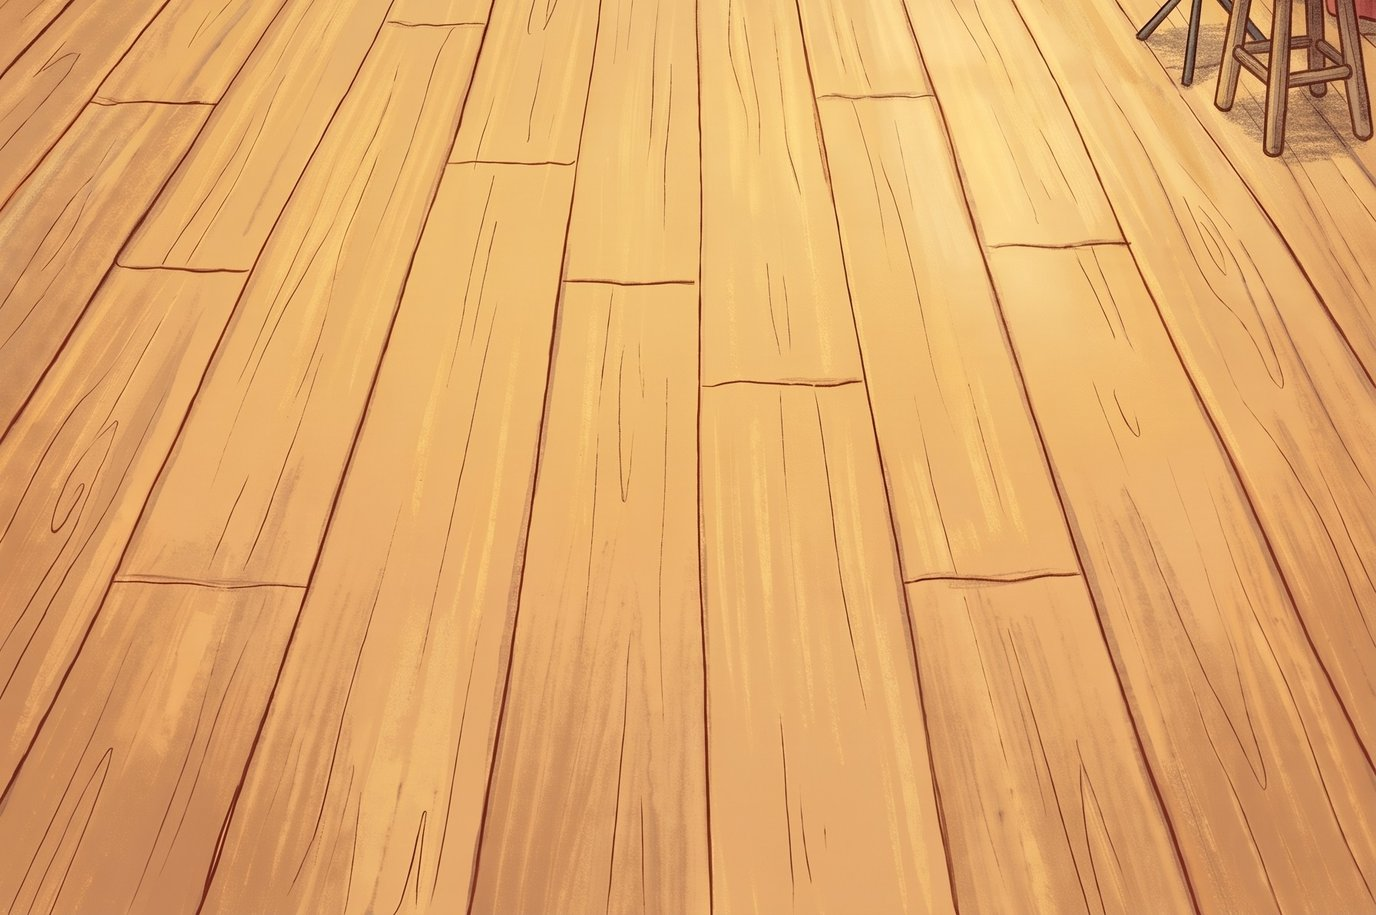
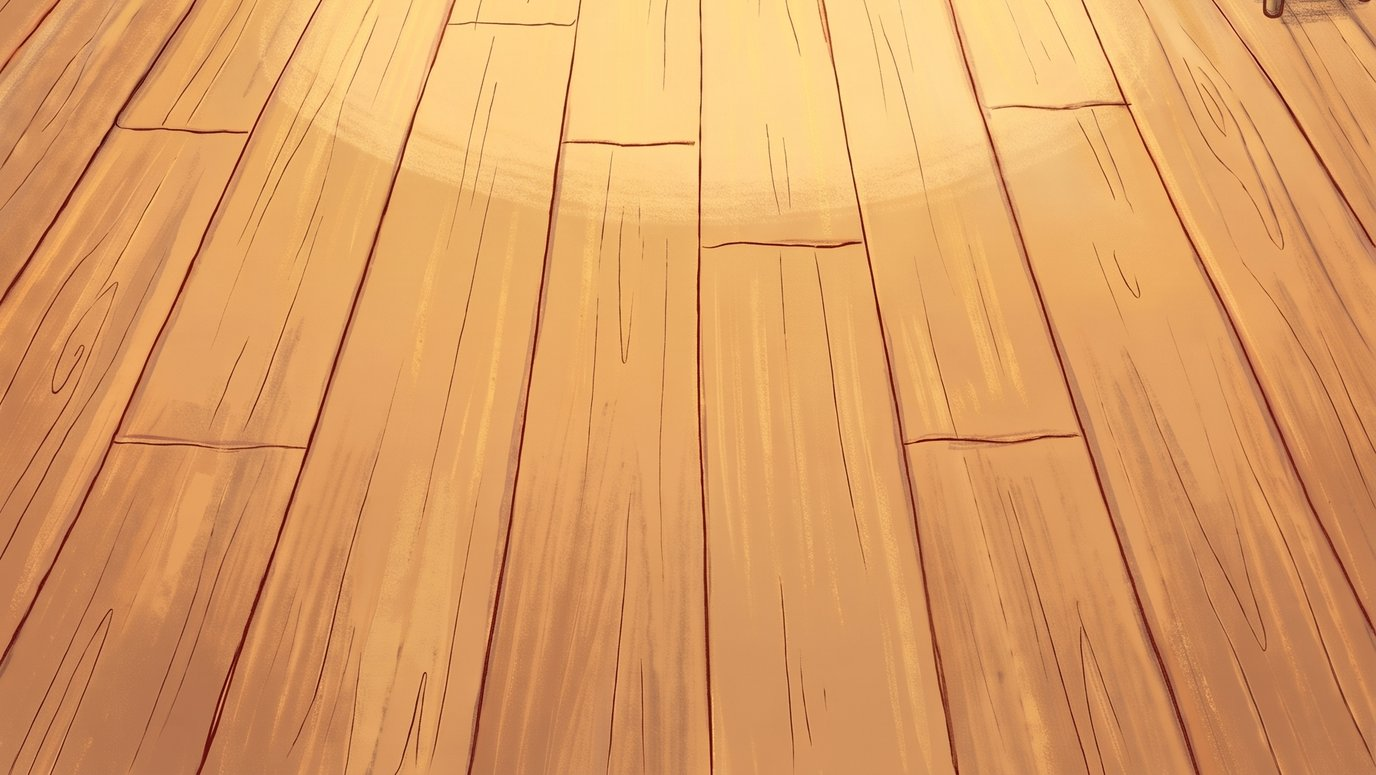
Violin stage redrawn as a real stage seen from on it (open side door, ladder by the light, stand and stool kept), band and spots refit

Changed region(s): [[0.0, 0.0, 1.0, 1.0], [0.875, 0.991, 0.9062, 1.0], [0.4375, 0.991, 0.4688, 1.0]]

diff --git a/index.html b/index.html
@@ -2475,7 +2475,7 @@ const VIOLIN_CASE = {
         { label:'Stool', prop:true, en:'There is a stool next to the music stand.', ko:'악보대 옆에 작은 의자가 있어.' },
         { label:'Open door', prop:true, en:'The door is open. I can see a ladder.', ko:'문이 열려 있어. 사다리가 보이네.' }
       ],
-      spots:[ { clue:0, x:81, y:51, w:14, h:18 }, { clue:1, x:89, y:90, w:10, h:10 }, { clue:2, x:24, y:7, w:20, h:70 } ] },
+      spots:[ { clue:0, x:81, y:33, w:14, h:20 }, { clue:1, x:88, y:72, w:11, h:28 }, { clue:2, x:3, y:2, w:29, h:86 } ] },
     // the curtain opens once Pip has told what he saw (design 6절); the case and the button lie in front of it until taken
     { id:'backstage', x:76, y:29, label:'Backstage', artWidth:1376, artHeight:768,
       clues:[
@@ -6229,7 +6229,7 @@ const ART_FLOOR = {
   // the violin case: one tall picture each as well
   foyer:    { src:'assets/places/violin/lobby-floor.jpg', h:695 },
   waiting:  { src:'assets/places/violin/waiting-floor.jpg', h:935 },
-  stage:    { src:'assets/places/violin/stage-floor.jpg', h:915 },
+  stage:    { src:'assets/places/violin/stage-floor.jpg', h:775 },
   backstage:{ src:'assets/places/violin/backstage-floor.jpg', h:825 }
 };
 

diff --git a/scripts/cut-violin-places.py b/scripts/cut-violin-places.py
@@ -18,7 +18,7 @@ from collections import deque
 from PIL import Image, ImageFilter, ImageChops, ImageDraw
 D = 'assets/places/violin/'
 CUT = sys.argv[1].rstrip('/\\') + '/'
-TOP = {'lobby': 380, 'waiting': 140, 'stage': 160, 'backstage': 250, 'backstage-open': 250}
+TOP = {'lobby': 380, 'waiting': 140, 'stage': 300, 'backstage': 250, 'backstage-open': 250}
 for id, top in TOP.items():
     im = Image.open(D + f'{id}-higgsfield-original.jpg').convert('RGB').resize((1376, 1843), Image.LANCZOS)
     im.crop((0, top, 1376, top + 768)).save(D + f'{id}.jpg', quality=88)

diff --git a/assets/places/README.md b/assets/places/README.md
@@ -106,12 +106,12 @@ Use case: illustration-story. Create ONE empty background illustration for the w
 - 장소 4곳: 우산 사건처럼 바닥까지 세로 한 장. Nano Banana 2.1 · 3:4 · 2K · thinking high, 회관 원본(`umbrella/hall-higgsfield-original.jpg`, media `216af844-…`)을 화풍 참조로. 장당 2크레딧. 1792×2400.
   - 로비 `7b6d317d-1ae9-4f9d-bedb-dc835ef8f5b1` → `lobby-higgsfield-original.jpg`: 바이올린·음표 포스터, 그 아래 긴 벤치와 벤치 밑 안내지, 빈 안내판(이젤), 탁자 위 프로그램 묶음, 안쪽 복도 문.
   - 대기실 `e1ab2f17-86a3-4a76-8335-40b9b2d5720c` → `waiting-higgsfield-original.jpg`: 왼쪽 열린 문 너머 준비실 입구와 붉은 커튼, 의자 두 개(왼쪽 의자 옆 빈 바닥), 옷걸이, 전신거울, 탁자 위 물병. 니퍼는 그림에 없다(소지품 그림을 오른쪽 의자 아래에 얹는다).
-  - 무대 `8dbddf27-0911-4532-a00f-551c64234cd4` → `stage-higgsfield-original.jpg`: 열린 옆문 너머 사다리와 작업등만 보임, 오른쪽 가장자리 악보대와 작은 의자, 붉은 막과 객석.
+  - 무대(다시 만듦, 2026-11-09, 사용자 요청: 무대답게; 첫 판 `8dbddf27-…`은 복도 옆방처럼 보였음) `db00b210-344d-41b3-8bed-936a47f1367b` → `stage-higgsfield-original.jpg`: 무대 위에서 객석을 보는 시점. 금색 무대 틀과 양옆으로 걷힌 붉은 막·술 달린 위 장식, 조명 봉의 스포트라이트, 무대 앞 각광, 어두운 붉은 객석과 2층, 비상구 등. 왼쪽 무대 옆 열린 문 너머 작업등 옆 사다리(이보 i4), 오른쪽 악보대와 작은 의자. 참조 첫 판 무대·준비실 job, 3:4 2K thinking high, 2크레딧.
   - 준비실 `4c7728ea-0c9b-48b0-be61-0565a3a6eaf5` → `backstage-higgsfield-original.jpg`: 왼쪽 통로 문, 사다리와 켜진 작업등, 닫힌 긴 붉은 커튼, 오른쪽 무대 쪽 문.
   - 커튼을 연 준비실 `2e486cef-dbad-449d-9965-7f936977410b` → `backstage-open-higgsfield-original.jpg`(위 준비실을 참조로 편집, 2K라 2크레딧): 커튼을 오른쪽으로 걷어 선반 위 예비 전구들, 선반 아래 검은 공구함. 케이스·단추는 그림에 없다(소지품 그림을 얹는다).
 - 소지품 시트 `1a72b2d8-fc85-4c82-acaf-4c7fe9885655` → `items-sheet-original.jpg`(16:9 2K, 2크레딧, 참조 `umbrella/umbrella-sheet-original.png`·타라와 오웬 시트): 닫힌 검은 케이스(노란 달), 연 케이스(현이 끊어진 바이올린·활), 금색 단추, 날에 은색 현 조각이 낀 빨간 손잡이 니퍼. 연 케이스의 달 스티커가 뚜껑 안쪽 안감에 그려졌다.
 - 소매 확대 시트 `997b5f43-8664-4a83-a3cb-655ca3491c9f` → `sleeves-sheet-original.jpg`(16:9 2K, 2크레딧, 참조 세 인물 시트): 2×2 칸. 왼쪽 위 오웬(화면 왼쪽 소매는 빈 자리와 실, 오른쪽은 금색 단추, 사진 증거 sleeve-photo), 오른쪽 위 이보(어두운 단추), 왼쪽 아래 모모(은색 똑딱이 둘씩), 오른쪽 아래 빈 칸.
 - 타라가 준 케이스 사진 `556e9eef-71bc-4676-9539-09cec339f321` → `tara-photo-higgsfield-original.jpg`(4:3 1K, 1.5크레딧, 참조 소지품 시트): 집 의자 위의 닫힌 케이스와 노란 달.
 - 마을 지도에 음악회관 `e1f461aa-df1d-4a82-9f3e-d9b8e625a756` → `../map-violin-higgsfield-original.jpg`(9:16 1K, 1.5크레딧, 참조 지금 낮 지도 `village-map-day-higgsfield.webp`, media `6b7ce609-…`): 오른쪽 종탑 회관과 호수 오두막 사이 소나무 자리에 크림 벽·붉은 둥근 지붕·바이올린 그림 간판의 음악회관. 바뀐 부분만 지금 지도에 붙일 차례(우산 때와 같은 방식).
-- 적용(2026-11-08, 앞 사건들처럼 Python으로 다시 자름): `scripts/cut-violin-places.py <배경 제거 폴더>`(Pillow). 장소는 1376×1843으로 줄여 띠 시작(로비 380: 벤치 밑 안내지가 들어가게·대기실 140·무대 160·준비실과 커튼을 연 판 250)부터 768을 `<id>.jpg`, 그 아래를 `<id>-floor.jpg`(로비 695·대기실 935·무대 915·준비실 825). 게임의 장소 id는 로비만 `foyer`(소풍 사건의 `lobby`와 겹치지 않게). 소지품은 배경 제거한 시트(`remove_background` `3f42bb9c-…`, 저장소에 넣지 않음)에서 남은 흰 스티커 테두리를 바깥에서 깎고(옅은 회백색만, 갈색 선에서 멈춤) 물건마다 잘라 `case-closed.png` 293×640·`case-open.png` 416×640·`gold-button.png` 240×240·`cutters.png` 302×460. 니퍼는 대기실 오른쪽 의자 아래, 케이스는 커튼을 연 준비실 선반 앞에 눕혀, 단추는 커튼 자락 아래에 `ART`로 얹는다. 소매는 시트의 세 칸에서 종이를 가장자리부터 지우고(사용자 요청: 종이 없이) 큰 조각만 남겨 높이 300 PNG로(`sleeves-owen.png` 442·`-ivo` 427·`-momo` 385 폭), 확대 조사에서는 방 그림을 흐리게 깐 위 가운데에 높이 260으로 놓는다(`closeLook()`). 타라의 사진은 1024×765 `tara-photo.jpg`.
+- 적용(2026-11-08, 앞 사건들처럼 Python으로 다시 자름): `scripts/cut-violin-places.py <배경 제거 폴더>`(Pillow). 장소는 1376×1843으로 줄여 띠 시작(로비 380: 벤치 밑 안내지가 들어가게·대기실 140·무대 300·준비실과 커튼을 연 판 250)부터 768을 `<id>.jpg`, 그 아래를 `<id>-floor.jpg`(로비 695·대기실 935·무대 775·준비실 825). 게임의 장소 id는 로비만 `foyer`(소풍 사건의 `lobby`와 겹치지 않게). 소지품은 배경 제거한 시트(`remove_background` `3f42bb9c-…`, 저장소에 넣지 않음)에서 남은 흰 스티커 테두리를 바깥에서 깎고(옅은 회백색만, 갈색 선에서 멈춤) 물건마다 잘라 `case-closed.png` 293×640·`case-open.png` 416×640·`gold-button.png` 240×240·`cutters.png` 302×460. 니퍼는 대기실 오른쪽 의자 아래, 케이스는 커튼을 연 준비실 선반 앞에 눕혀, 단추는 커튼 자락 아래에 `ART`로 얹는다. 소매는 시트의 세 칸에서 종이를 가장자리부터 지우고(사용자 요청: 종이 없이) 큰 조각만 남겨 높이 300 PNG로(`sleeves-owen.png` 442·`-ivo` 427·`-momo` 385 폭), 확대 조사에서는 방 그림을 흐리게 깐 위 가운데에 높이 260으로 놓는다(`closeLook()`). 타라의 사진은 1024×765 `tara-photo.jpg`.
 - 지도: 편집본의 (540,410) 228×200에서 낮 지도와 달라진 곳만 가장자리를 흐려 `village-map-day-higgsfield.webp`에 붙였다(우산 사건 때와 같은 방식, 모든 사건의 지도). 핀: 로비 87,41·대기실 74,38·무대 91,33·준비실 76,29(한 건물의 네 방이라 둘레에 나눔).

diff --git a/HANDOFF.md b/HANDOFF.md
@@ -537,7 +537,7 @@ node server.js            # http://localhost:5173/
 |---|---|---|
 | 도서관 | `places/library-higgsfield-v2.png` | 사용자 제작, 1376×768 |
 | 소풍 가방 장소 그림 | `places/picnic-storyboard/picnic-wide.png`(소풍 탁자), `cafe-day.png`(낮의 호수 카페), `ben-home.png`(벤의 집), `garden.webp`(정원), `picnic-documents.png`(로지가 맡긴 가방 소지품 사진) | 사용자 제공·Codex 편집·기존 Higgsfield 그림(출처는 같은 폴더 README). 정원의 두 가방은 소풍 탁자 그림의 가방을 오려 색 입힌 `backpack-blue/red.png`(`scripts/cut-picnic-backpack.py`, 107×106, 오릴 범위와 손으로 그린 윤곽이 가방 바닥선 아래까지 와야 바닥이 일자로 잘리지 않는다), 벤의 집 `ben-home.png`은 너무 비어 보여(사용자 지적) Nano Banana 2.1 2K로 가구를 더한 편집본이다(왼쪽 벽 선반·창 아래 통나무와 나무 조각품·바닥 가운데 둥근 러그·문 옆 옷걸이, job `40af91f1`, 2크레딧). 2752×1536 결과를 원래 비율로 가운데를 잘라 1672×941로 줄였고, 아래 가장자리는 바닥 그대로라 `benhome-floor.jpg`와 이어진다(예전 그림보다 이음 차이가 작다). 회사 로비는 `lobby-higgsfield.webp`, 로지의 가방 소지품은 `picnic-rosie-bag.webp`. 대화 바닥 확장은 다섯 장소 모두 `<id>-floor.jpg`(로비는 `lobby-floor.webp`). 도서관 사건의 밤 카페는 그대로 둔다 |
-| 바이올린 사건 | 장소 `places/violin/lobby.jpg`·`waiting.jpg`·`stage.jpg`·`backstage.jpg`·`backstage-open.jpg`(커튼을 연 판), `<id>-floor.jpg`, 소지품 `case-closed.png`·`case-open.png`·`gold-button.png`·`cutters.png`, 소매 `sleeves-owen.png`·`-ivo`·`-momo`(종이 없이), `tara-photo.jpg`; 인물 `characters/tara·owen·ivo·momo·pip-higgsfield.png`, `owen-nervous·owen-sad-higgsfield.png`, 얼굴 `ui/icons-v2/<id>.png`, 입 `characters/mouths/<id>-closed·open.png` | Claude 제작(2026-11-07, 27.5크레딧, 배경 제거 6장 별도). 자르기 `scripts/cut-violin-characters.py`·`scripts/cut-violin-places.py`(Python + Pillow, 띠 시작 로비 380·대기실 140·무대 160·준비실 250). 배경 제거한 시트는 저장소에 넣지 않음(job은 README). 원본 `*-original.jpg`, 출처는 `assets/places/README.md`·`assets/characters/README.md` |
+| 바이올린 사건 | 장소 `places/violin/lobby.jpg`·`waiting.jpg`·`stage.jpg`·`backstage.jpg`·`backstage-open.jpg`(커튼을 연 판), `<id>-floor.jpg`, 소지품 `case-closed.png`·`case-open.png`·`gold-button.png`·`cutters.png`, 소매 `sleeves-owen.png`·`-ivo`·`-momo`(종이 없이), `tara-photo.jpg`; 인물 `characters/tara·owen·ivo·momo·pip-higgsfield.png`, `owen-nervous·owen-sad-higgsfield.png`, 얼굴 `ui/icons-v2/<id>.png`, 입 `characters/mouths/<id>-closed·open.png` | Claude 제작(2026-11-07, 27.5크레딧, 배경 제거 6장 별도). 자르기 `scripts/cut-violin-characters.py`·`scripts/cut-violin-places.py`(Python + Pillow, 띠 시작 로비 380·대기실 140·무대 300·준비실 250). 배경 제거한 시트는 저장소에 넣지 않음(job은 README). 원본 `*-original.jpg`, 출처는 `assets/places/README.md`·`assets/characters/README.md` |
 | 우산 사건 장소 | `places/umbrella/hall.webp`·`toynest.webp`·`windmill.webp`, `<id>-floor.jpg`, `bazaar-photo.webp`, `stand-front.png` | Claude 제작(2026-11-03). Nano Banana 2.1 3:4 2K 한 장씩(장당 2크레딧, 베티의 집 참조)을 1376 폭으로 줄여 768 띠를 장소 그림, 그 아래를 바닥으로(`scripts/cut-umbrella-places.py`, 띠 시작 회관 100·가게 60·언덕 50). 게시판 사진은 4:3 1K(1.5크레딧). 접힌 우산 `umbrella-folded.png`의 아랫단 금빛 안감은 남색으로 칠함. 원본 `*-higgsfield-original.jpg`, 출처는 `assets/places/README.md` |
 | 우산 사건 인물 | `characters/ella·finn·tess·ruby-higgsfield.png`, `ui/icons-v2/<id>.png`, `characters/mouths/<id>-*.png` | Claude 제작(2026-11-03). 두 명씩 한 장(테스+루비, 엘라+핀), 루비 옷은 사용자 요청으로 다시 그림. `scripts/cut-umbrella-characters.py`, 입은 `make-npc-mouths.py`(닫은 입은 그림 그대로). `assets/characters/README.md` |
 | 아직 그림이 없는 인물 | `ui/icons-v2/pending.png`, `pendingSVG` | 벤·미아와 올리·노라의 임시 점선 실루엣(Claude가 PIL·SVG로 그림, 크레딧 없음) |
